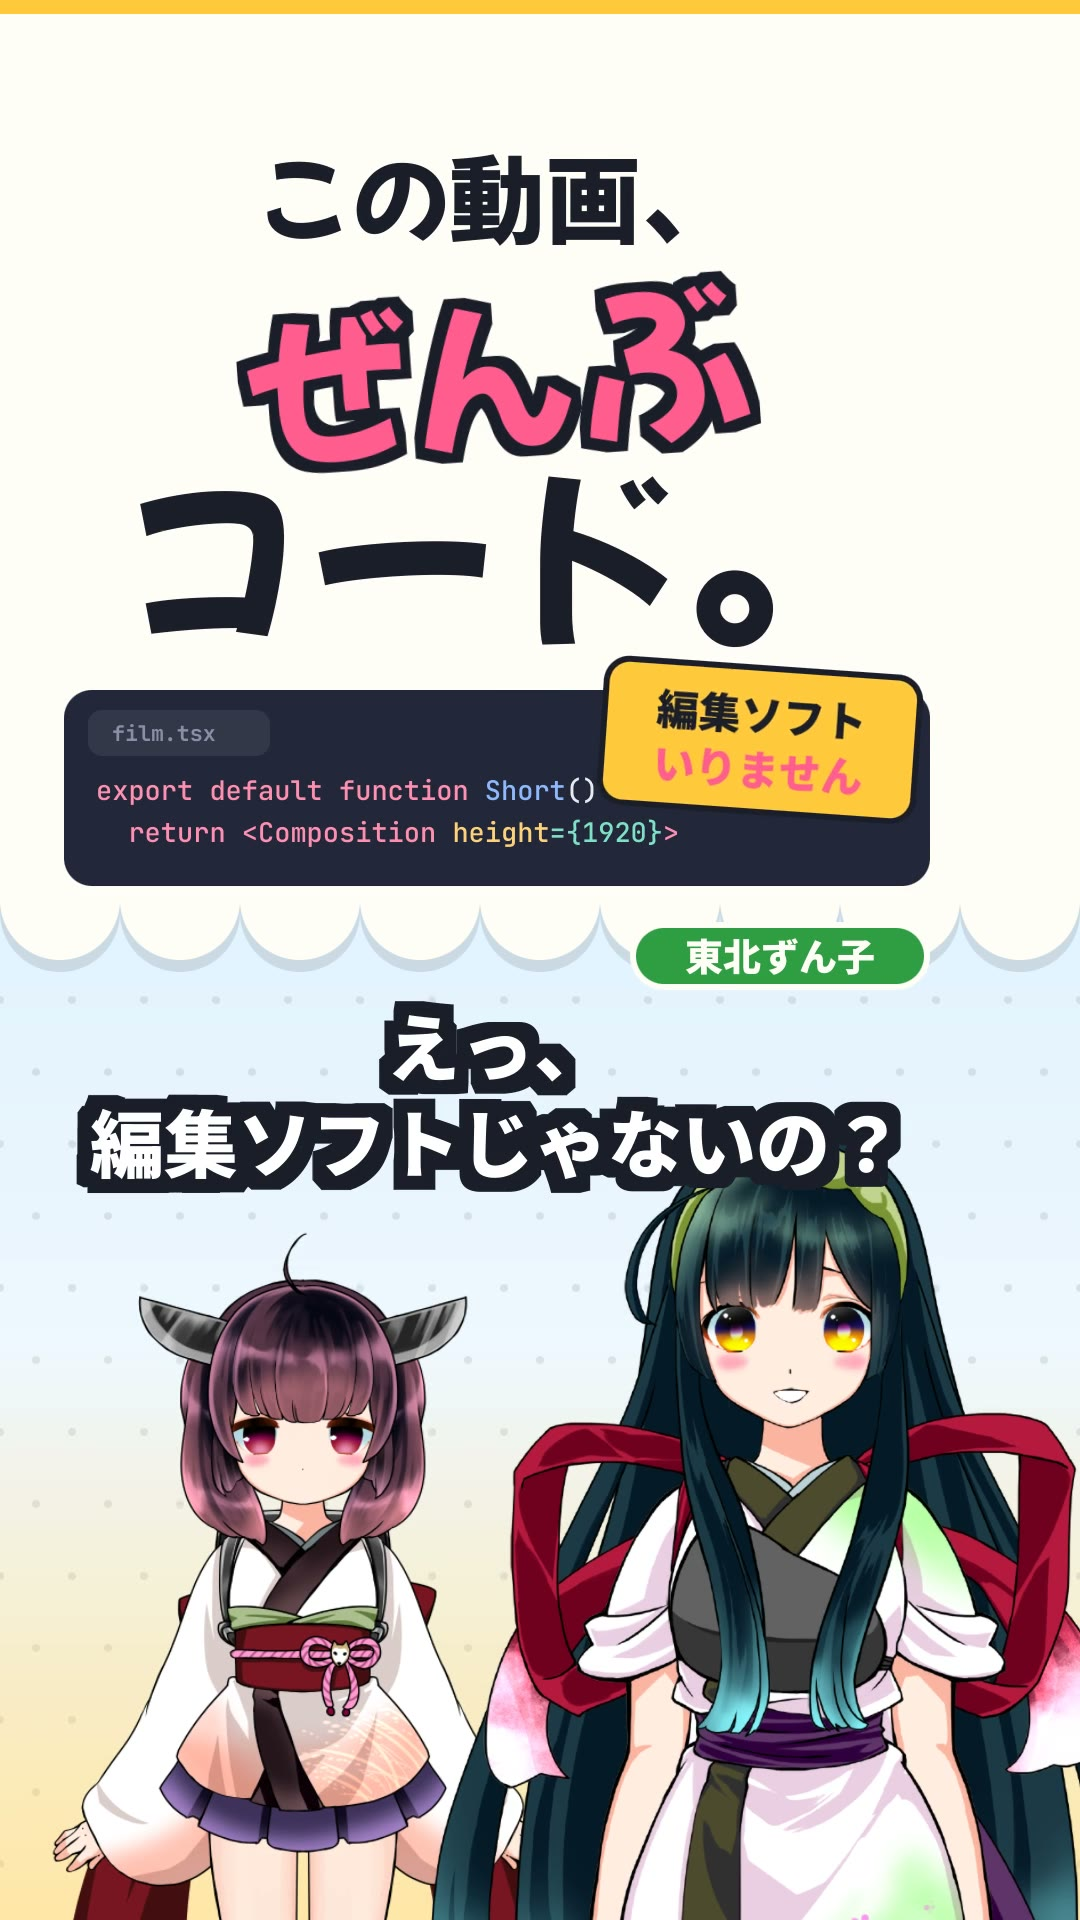
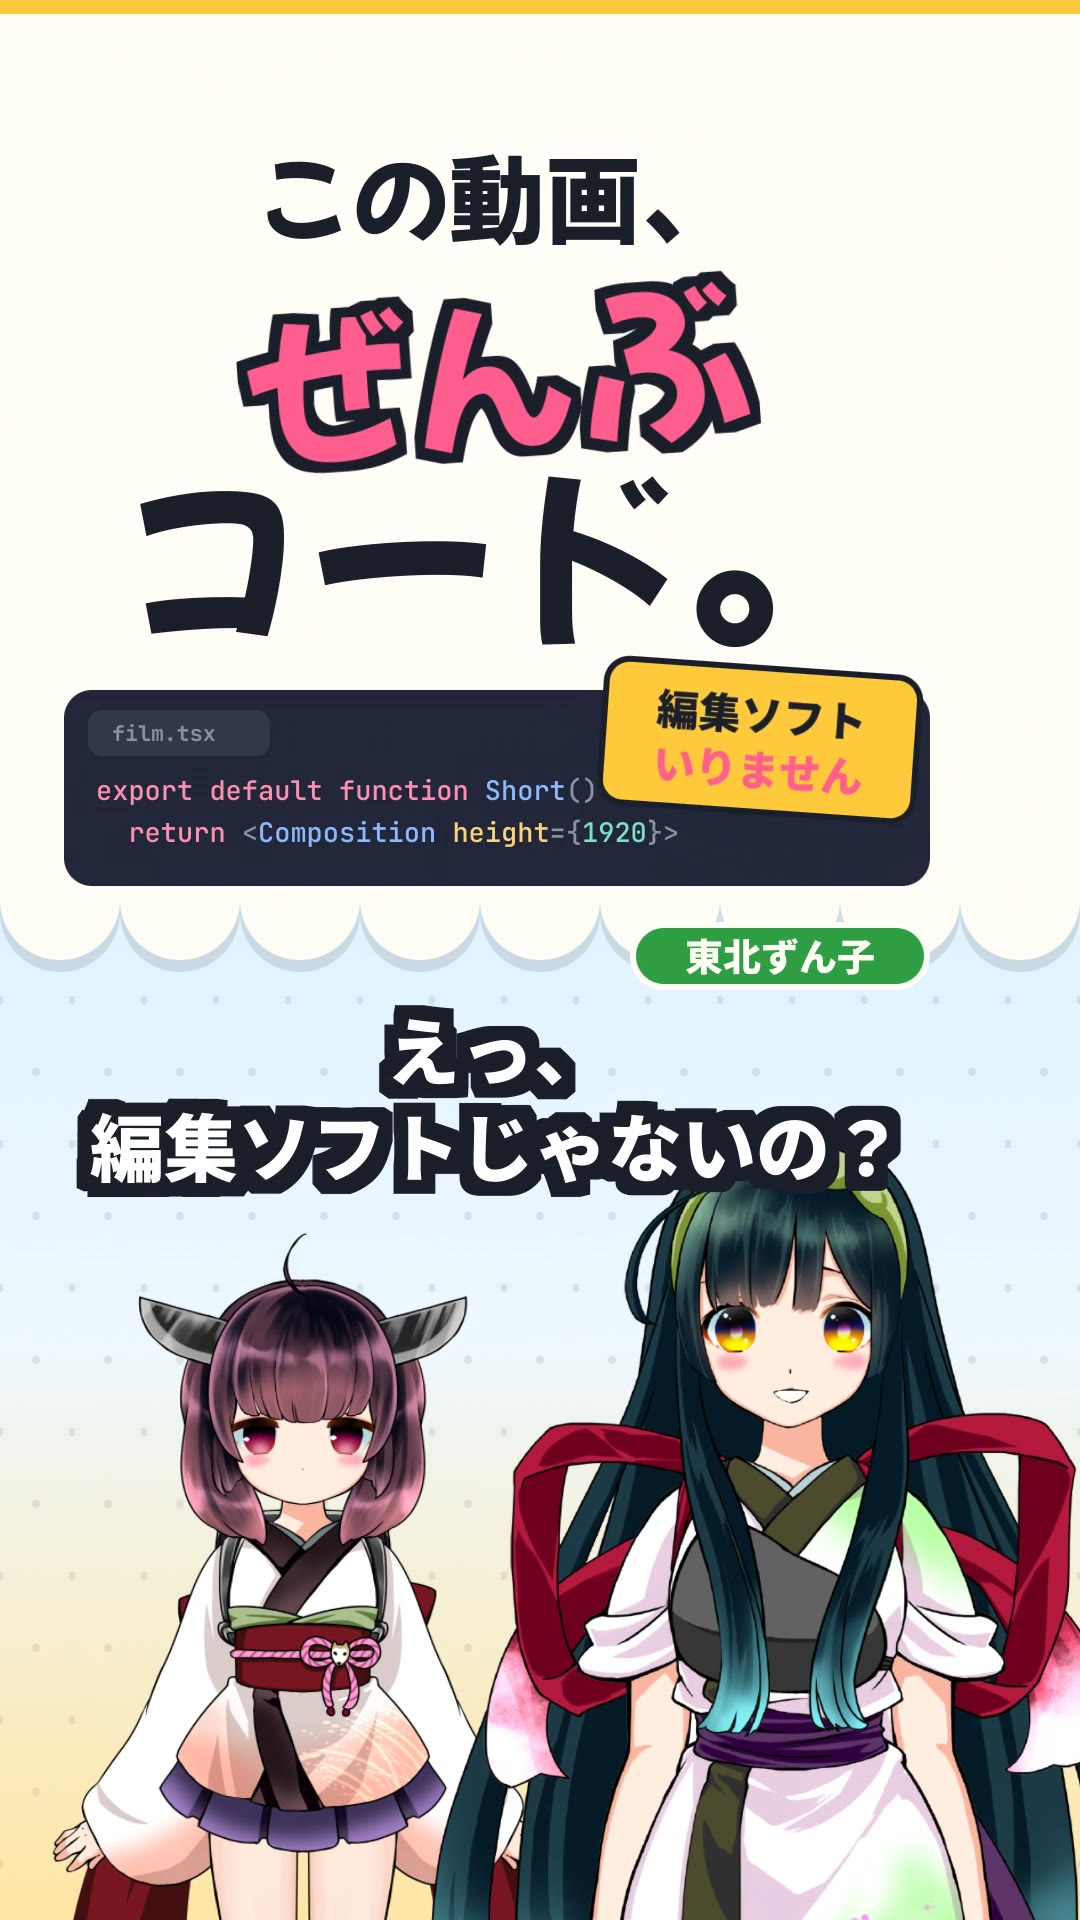
refactor(examples): draw shorts-explainer's dots with <Instances> and its code with highlightCode()
The background's 464 dots were one <Circle> layer each. They are now one
<Instances shape="circle"> layer whose centres are refilled every frame,
at the same positions and color. inspect.mjs --every 30 prints 3881 lines
instead of 25225.

The code cards colored hand-split tokens. They now take a source string,
split and color it with highlightCode() (tsx) and a CodeTheme in the
video's own colors, and draw one <Text> per line with colorRuns and
visibleCharacters. Typing counts source code points, line breaks
included. The caret still uses JetBrains Mono's fixed 0.6 em advance, so
nothing measures text and plain inspect.mjs still evaluates every frame.

Changed region(s): [[0.0611, 0.5, 0.825, 0.625], [0.2444, 0.4062, 0.3972, 0.4375], [0.5194, 0.4062, 0.55, 0.4375]]

diff --git a/examples/shorts-explainer/components/CodeCard.tsx b/examples/shorts-explainer/components/CodeCard.tsx
@@ -1,75 +1,90 @@
-import { Group, Rect, Span, Text } from '@celesta/react';
+import { Group, Rect, Text } from '@celesta/react';
+import { highlightCode } from '@celesta/code';
+import type { CodeTheme, HighlightedCodeLine } from '@celesta/code';
 import { C, FONT } from '../constants';
 import { Label } from './Label';
 
-// A line of code as colored tokens: [text, color?].
-export type CodeLine = [string, string?][];
+// The video's own colors for @celesta/code's token types: tags and calls
+// in blue, keywords in pink, attributes in yellow, values in mint.
+const THEME: CodeTheme = {
+  foreground: C.codeText,
+  highlightLine: '#FFC93C30',
+  tokens: {
+    keyword: '#FF8FB1', builtin: '#FF8FB1',
+    tag_name: '#8FB8FF', function: '#8FB8FF', type: '#8FB8FF', namespace: '#8FB8FF',
+    attr_name: '#FFD27A', property: '#FFD27A', parameter: '#FFD27A',
+    string: '#7FE0C6', template: '#7FE0C6', regex: '#7FE0C6', number: '#7FE0C6', constant: '#7FE0C6', boolean: '#7FE0C6',
+    punctuation: C.codeDim, operator: C.codeDim, comment: C.codeDim,
+  },
+};
 
-export const SYNTAX = {
-  tag: '#FF8FB1',
-  attr: '#FFD27A',
-  value: '#7FE0C6',
-  fn: '#8FB8FF',
-  plain: C.codeText,
-  dim: C.codeDim,
-} as const;
+// A TSX snippet split into lines and colored the way <Code> colors it.
+export function highlightTsx(source: string): HighlightedCodeLine[] {
+  return highlightCode(source, { language: 'tsx', theme: THEME });
+}
+
+// Source code points up to the end of line `i`: typing has reached the end
+// of that line once `typed` is this many.
+export function lineEnd(lines: HighlightedCodeLine[], i: number) {
+  return lines[i].start + lines[i].columns.length - 1;
+}
 
 type CodeCardProps = {
   x: number;
   y: number;
   width: number;
   file: string;
-  lines: CodeLine[];
+  // From highlightTsx(), computed once outside the component.
+  lines: HighlightedCodeLine[];
   size?: number;
-  // How many characters are typed so far (all when omitted).
+  // How many source code points are typed so far, line breaks included (all
+  // when omitted). The caret shows until typing passes the end.
   typed?: number;
   // Lines drawn with a highlight bar behind them.
   highlight?: number[];
 };
 
-// A dark editor card with a file tab. Typing counts characters across lines.
+// A dark editor card with a file tab. One <Text> per line, colored with the
+// line's runs; typing reveals code points with visibleCharacters.
 export function CodeCard({ x, y, width, file, lines, size = 30, typed, highlight = [] }: CodeCardProps) {
   const lineHeight = Math.round(size * 1.55);
-  const height = 84 + lines.length * lineHeight + 28;
-  let budget = typed ?? Infinity;
+  const height = codeCardHeight(lines.length, size);
+  const visible = typed ?? Infinity;
+  // JetBrains Mono advances every glyph by 0.6 em, so a column is a fixed
+  // width and the caret needs no text measuring.
+  const advance = size * 0.6;
   let caretLine = -1;
   let caretColumn = 0;
-  const shown = lines.map((tokens, i) => {
-    const out: [string, string?][] = [];
-    let column = 0;
-    for (const [text, color] of tokens) {
-      const chars = [...text];
-      const take = Math.max(0, Math.min(chars.length, budget));
-      if (take > 0) out.push([chars.slice(0, take).join(''), color]);
-      budget -= take;
-      column += take;
-      if (take < chars.length) break;
-    }
-    if (typed !== undefined && caretLine < 0 && budget <= 0) {
-      caretLine = i;
-      caretColumn = column;
-    }
-    return out;
-  });
+  if (typed !== undefined && typed <= lineEnd(lines, lines.length - 1)) {
+    caretLine = 0;
+    while (caretLine + 1 < lines.length && lines[caretLine + 1].start <= typed) caretLine++;
+    const line = lines[caretLine];
+    caretColumn = line.columns[Math.min(typed - line.start, line.columns.length - 1)];
+  }
   return (
     <Group x={x} y={y}>
       <Rect width={width} height={height} cornerRadius={28} fill={C.code} />
       <Rect x={24} y={20} width={Math.max(160, file.length * size * 0.62 + 48)} height={46} cornerRadius={14} fill={C.codeLine} />
-      <Label x={48} y={43} ay={0.5} size={size * 0.8} font="mono" weight={700} color={SYNTAX.dim}>{file}</Label>
+      <Label x={48} y={43} ay={0.5} size={size * 0.8} font="mono" weight={700} color={C.codeDim}>{file}</Label>
       {lines.map((_, i) => highlight.includes(i) && (
         <Rect key={`hl-${i}`} x={14} y={84 + i * lineHeight - 4} width={width - 28} height={lineHeight}
-          cornerRadius={10} fill="#FFC93C30" />
+          cornerRadius={10} fill={THEME.highlightLine} />
       ))}
-      {shown.map((tokens, i) => tokens.length > 0 && (
-        <Text key={i} x={32} y={84 + i * lineHeight + lineHeight / 2 - 4} anchorY={0.5}
-          style={{ fontFamily: FONT.mono, fontSize: size, fontWeight: 500, fill: { type: 'solid', color: SYNTAX.plain } }}>
-          {tokens.map(([text, color], k) => (
-            <Span key={k} style={{ fill: color ?? SYNTAX.plain }}>{text}</Span>
-          ))}
-        </Text>
-      ))}
+      {lines.map((line, i) => {
+        if (!line.text || visible <= line.start) return null;
+        const shown = Math.min(visible - line.start, line.columns.length - 1);
+        return (
+          <Text key={i} x={32} y={84 + i * lineHeight + lineHeight / 2 - 4} anchorY={0.5}
+            style={{
+              fontFamily: FONT.mono, fontSize: size, fontWeight: 500, fill: { type: 'solid', color: THEME.foreground },
+              colorRuns: line.runs, visibleCharacters: line.columns[shown],
+            }}>
+            {line.text}
+          </Text>
+        );
+      })}
       {caretLine >= 0 && (
-        <Rect x={32 + caretColumn * size * 0.6} y={84 + caretLine * lineHeight + 4}
+        <Rect x={32 + caretColumn * advance} y={84 + caretLine * lineHeight + 4}
           width={4} height={lineHeight - 14} fill={C.yellow} />
       )}
     </Group>

diff --git a/examples/shorts-explainer/components/Backdrop.tsx b/examples/shorts-explainer/components/Backdrop.tsx
@@ -1,19 +1,27 @@
-import { Circle } from '@celesta/shapes';
-import { Group, Rect, useCurrentFrame } from '@celesta/react';
+import { Instances, Rect, useCurrentFrame } from '@celesta/react';
 import { C, H, STAGE_Y, W } from '../constants';
+
+// The dot grid: rows offset by half a step, one row above the top so the
+// grid can drift upward without a gap. Its centres are refilled every frame.
+const STEP = 72;
+const FIRST_ROW = -1;
+const ROWS = Math.ceil(H / STEP + 1) - FIRST_ROW;
+const COLUMNS = Math.ceil(W / STEP + 1);
+const DOTS = ROWS * COLUMNS;
+const xs = new Float32Array(DOTS);
+const ys = new Float32Array(DOTS);
 
 // The whole-video background behind the panel and portraits: a sky-to-cream
 // gradient, a dot grid drifting upward, and a soft floor.
 export function Backdrop() {
   const frame = useCurrentFrame();
-  const step = 72;
-  const drift = (frame * 0.8) % step;
-  const dots = [];
-  for (let row = -1; row < H / step + 1; row++) {
-    for (let col = 0; col < W / step + 1; col++) {
-      const x = col * step + (row % 2 === 0 ? 0 : step / 2);
-      const y = row * step - drift;
-      dots.push(<Circle key={`${row}-${col}`} x={x} y={y} anchorX={0.5} anchorY={0.5} radius={4} fill={C.line} />);
+  const drift = (frame * 0.8) % STEP;
+  for (let r = 0; r < ROWS; r++) {
+    const row = FIRST_ROW + r;
+    for (let col = 0; col < COLUMNS; col++) {
+      const i = r * COLUMNS + col;
+      xs[i] = col * STEP + (row % 2 === 0 ? 0 : STEP / 2);
+      ys[i] = row * STEP - drift;
     }
   }
   return (
@@ -22,7 +30,7 @@ export function Backdrop() {
         type: 'linear', start: { x: 0, y: 0 }, end: { x: 0, y: H },
         stops: [{ offset: 0.4, color: C.sky }, { offset: 0.7, color: '#EEF7FF' }, { offset: 1, color: C.cream }],
       }} />
-      <Group>{dots}</Group>
+      <Instances count={DOTS} x={xs} y={ys} shape="circle" width={8} height={8} fill={C.line} />
       <Rect y={STAGE_Y + 160} width={W} height={H - STAGE_Y - 160} fill={{
         type: 'linear', start: { x: 0, y: 0 }, end: { x: 0, y: H - STAGE_Y - 160 },
         stops: [{ offset: 0, color: '#FFC93C00' }, { offset: 1, color: '#FFC93C55' }],

diff --git a/examples/shorts-explainer/scenes/ReactScene.tsx b/examples/shorts-explainer/scenes/ReactScene.tsx
@@ -1,6 +1,5 @@
 import { Easings, Group, Rect, interpolate, spring, useCurrentFrame, useVideoConfig } from '@celesta/react';
-import { CodeCard, SYNTAX, codeCardHeight } from '../components/CodeCard';
-import type { CodeLine } from '../components/CodeCard';
+import { CodeCard, codeCardHeight, highlightTsx, lineEnd } from '../components/CodeCard';
 import { Label } from '../components/Label';
 import { BODY, Panel } from '../components/Panel';
 import { C } from '../constants';
@@ -10,13 +9,13 @@ const TITLE = 'React で書く';
 const NOTE = '部品を組み合わせて画面に';
 export const TEXT = [TITLE, NOTE, '四角', '文字'];
 
-const CODE: CodeLine[] = [
-  [['<Composition', SYNTAX.tag], [' width', SYNTAX.attr], ['={1080}', SYNTAX.value], [' height', SYNTAX.attr], ['={1920}', SYNTAX.value], ['>', SYNTAX.tag]],
-  [['  <Rect', SYNTAX.tag], [' fill', SYNTAX.attr], ['="#FFC93C"', SYNTAX.value], [' />', SYNTAX.tag]],
-  [['  <Text', SYNTAX.tag], ['>', SYNTAX.tag], ['Hello!', SYNTAX.plain], ['</Text>', SYNTAX.tag]],
-  [['</Composition>', SYNTAX.tag]],
-];
-const CHARS = CODE.flat().reduce((n, [text]) => n + [...text].length, 0);
+const CODE = highlightTsx([
+  '<Composition width={1080} height={1920}>',
+  '  <Rect fill="#FFC93C" />',
+  '  <Text>Hello!</Text>',
+  '</Composition>',
+].join('\n'));
+const CHARS = lineEnd(CODE, CODE.length - 1);
 
 // "Celesta writes video in React": the code types itself, and the picture
 // it describes builds up beside it. On "parts", the two parts light up.
@@ -25,7 +24,7 @@ export function ReactScene() {
   const { fps } = useVideoConfig();
   const parts = lineFrom('react', 'react-3');
   const typed = Math.round(interpolate(frame, [4, 64], [0, CHARS], { extrapolateLeft: 'clamp', extrapolateRight: 'clamp' }));
-  const done = (line: number) => typed >= CODE.slice(0, line + 1).flat().reduce((n, [t]) => n + [...t].length, 0);
+  const done = (line: number) => typed >= lineEnd(CODE, line);
   const rectIn = spring({ frame: frame - 34, fps, config: { damping: 12 } });
   const textIn = spring({ frame: frame - 50, fps, config: { damping: 12 } });
   const lit = frame >= parts;

diff --git a/examples/shorts-explainer/scenes/FrameScene.tsx b/examples/shorts-explainer/scenes/FrameScene.tsx
@@ -1,7 +1,6 @@
 import { Easings, Group, Rect, interpolate, useCurrentFrame } from '@celesta/react';
 import { Circle } from '@celesta/shapes';
-import { CodeCard, SYNTAX } from '../components/CodeCard';
-import type { CodeLine } from '../components/CodeCard';
+import { CodeCard, highlightTsx } from '../components/CodeCard';
 import { Label } from '../components/Label';
 import { BODY, Panel } from '../components/Panel';
 import { C } from '../constants';
@@ -9,9 +8,7 @@ import { lineFrom, plan } from '../voice';
 
 export const TEXT = ['フレームは関数', '→ 絵'];
 
-const CODE: CodeLine[] = [
-  [['const ', SYNTAX.tag], ['x', SYNTAX.plain], [' = ', SYNTAX.plain], ['interpolate', SYNTAX.fn], ['(', SYNTAX.plain], ['frame', SYNTAX.attr], [', [0, 30], [0, 600])', SYNTAX.value]],
-];
+const CODE = highlightTsx('const x = interpolate(frame, [0, 30], [0, 600])');
 
 // "There is no timeline": the frame number goes in, a picture comes out.
 // The ball's place is computed from the frame, so the earlier frames can be

diff --git a/examples/shorts-explainer/README.md b/examples/shorts-explainer/README.md
@@ -36,6 +36,8 @@
   PSD 立ち絵（`Character` / `CharacterView`、表情ごとの眉・頬・口のレイヤー、目のレイヤーによる自動まばたき）、
   `planDialogue()` と `<DialogueSeries>` による台本のタイミングと字幕、Google Fonts の `<Font>` 読み込み
   （和文は `text=` で使う文字だけにサブセット）、`<Audio volume>` のキーフレームによる BGM のフェードアウト。
+  背景のドット（464 個）は `<Instances>` の 1 レイヤーで描いています。コード欄は `@celesta/code` の
+  `highlightCode()` で字句解析し、作例の配色の `CodeTheme` で色分けした `colorRuns` と `visibleCharacters` で 1 行ずつ描いています。
 - **パネルの表示も実データ**: 03 のモーラと口の形は再生中の行の AudioQuery から、04 の目と口は立ち絵を動かしているのと
   同じスケジュールと口パクから、05 のバーは `planDialogue()` の結果から描いています。
 - **演出**: 01 のプレビュー画面と 02 のボールの動き（往復）は説明のための描画で、表示しているコードはその要約です。
